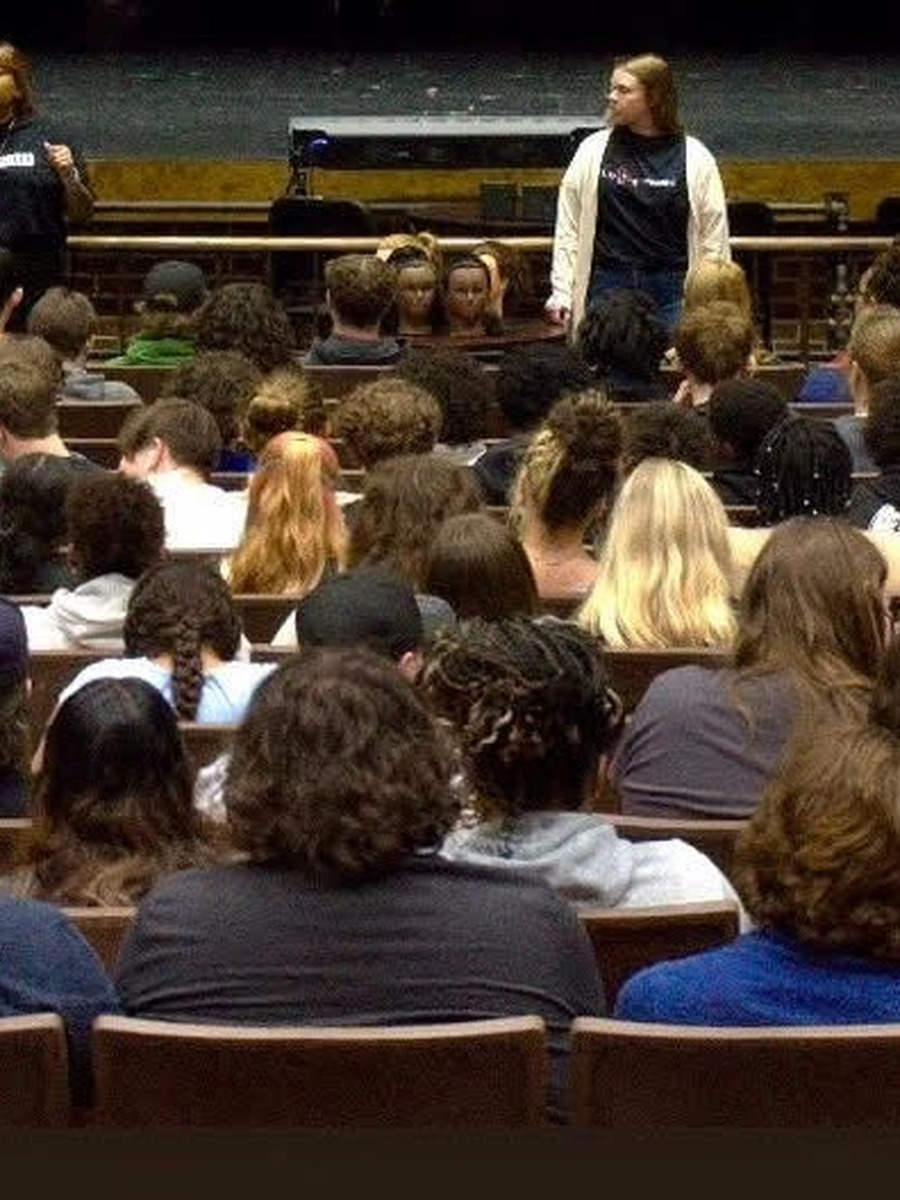
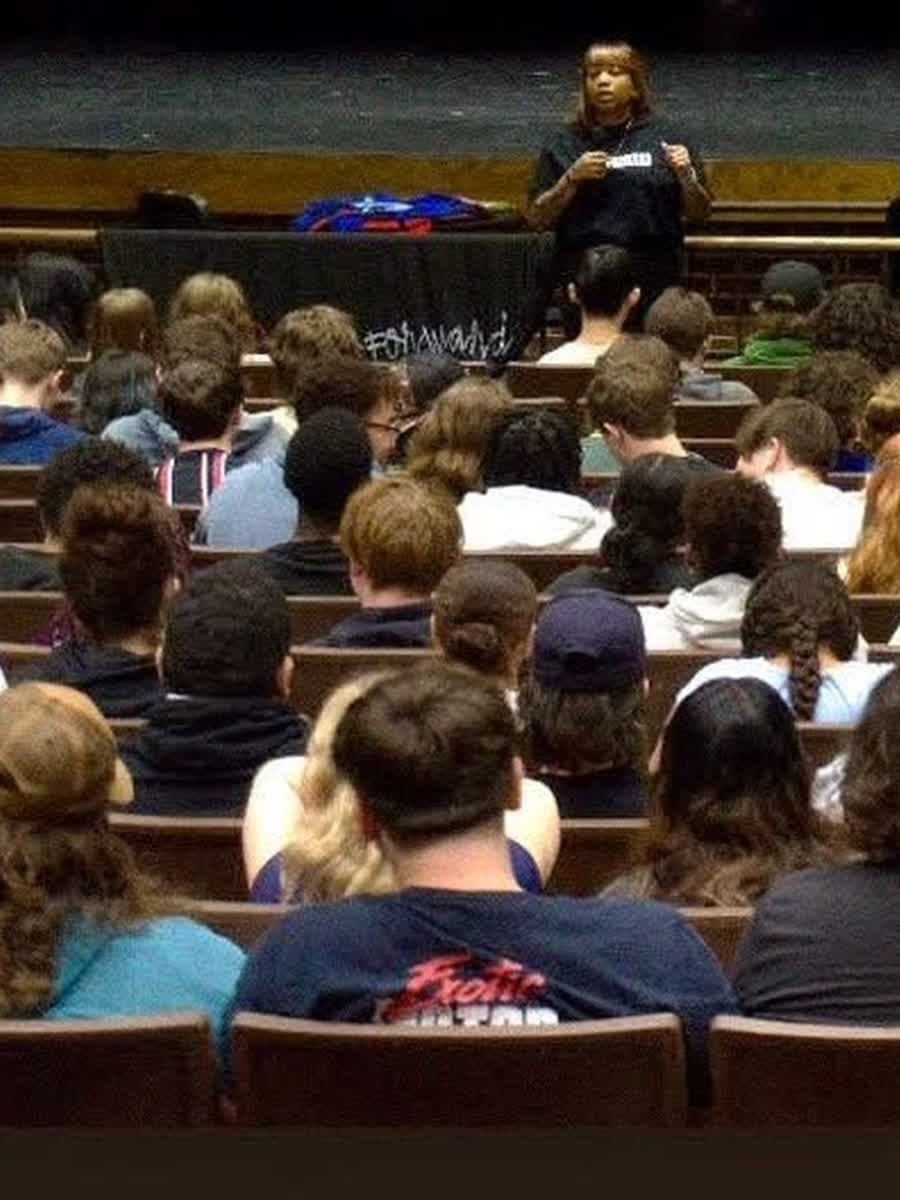
Landing preview: media kit link + hero head reframe
- Add visible Media Kit nav link and hero CTA (../media-kit/)
- Reframe hero images so Keisha’s full head is visible on desktop and mobile
- Desktop: anchor object-position to top; mobile: regenerate crop from talking-to-audience photo

diff --git a/landing/index.html b/landing/index.html
@@ -94,8 +94,10 @@
     position: absolute; inset: 0;
   }
   .hero-media img {
-    width: 100%; height: 100%; object-fit: cover; object-position: center 35%;
+    width: 100%; height: 100%; object-fit: cover;
   }
+  .hero-media .desktop-only { object-position: center top; }
+  .hero-media .mobile-only { object-position: left top; }
   .hero-media .mobile-only { display: block; }
   .hero-media .desktop-only { display: none; }
   @media (min-width: 768px) {
@@ -298,6 +300,7 @@
         <a href="#what-we-do">What we do</a>
         <a href="#project-seen">Project SEEN</a>
         <a href="#about">About</a>
+        <a href="../media-kit/">Media Kit</a>
         <a href="#connect">Connect</a>
         <a class="btn" href="mailto:info@loveforwardfoundation.org" style="padding:0.55rem 1rem;font-size:0.82rem;">Get in touch</a>
       </div>
@@ -317,6 +320,7 @@
       <p class="mission">A statewide movement supporting caregivers, youth, and adult children living the shared sentence of incarceration — with dignity, belonging, and love that moves forward.</p>
       <div class="ctas">
         <a class="btn" href="mailto:info@loveforwardfoundation.org">Get in touch</a>
+        <a class="btn btn-secondary" href="../media-kit/">View media kit</a>
         <a class="btn btn-secondary" href="tel:+15402525291">Call 540-252-5291</a>
         <a class="btn btn-secondary" href="#project-seen">See Project SEEN</a>
       </div>
